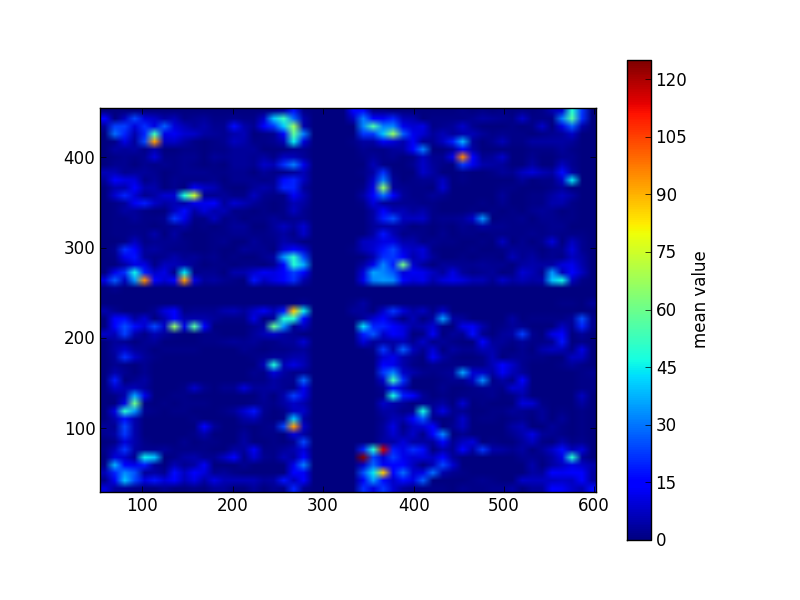
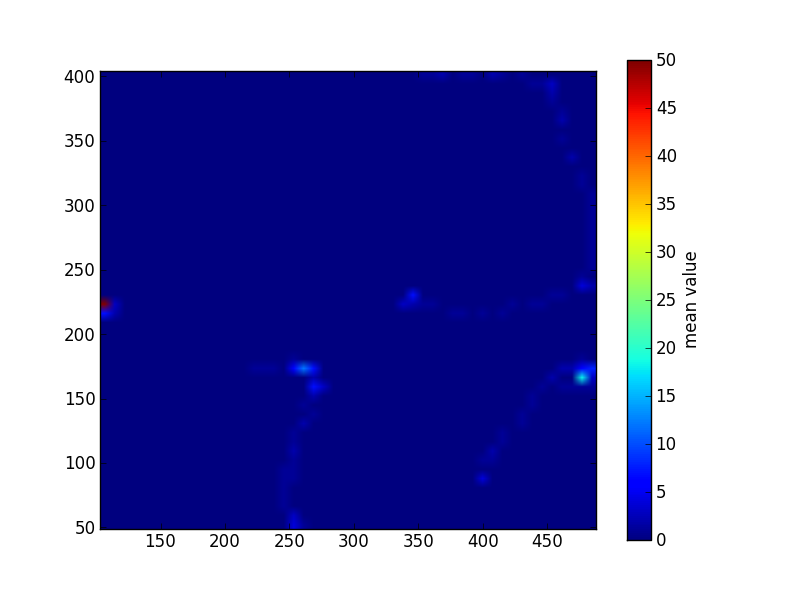
hitting the pause button

diff --git a/test.py b/test.py
@@ -1,6 +1,7 @@
 import cv2,cv
 import numpy as np
 import matplotlib.pyplot as plt
+import math
 
 CV_CAP_PROP_POS_MSEC = 0
 CV_CAP_PROP_POS_FRAMES = 1
@@ -30,23 +31,18 @@ print cap.isOpened()
 
 total_number_of_frames = cap.get(CV_CAP_PROP_FRAME_COUNT)
 print total_number_of_frames
+frame_per_sec = cap.get(CV_CAP_PROP_FPS)
+print frame_per_sec
 width = int(cap.get(3))
 height = int(cap.get(4))
 
+def comp_tuple(mp,pt1,pt2):
+    return mp[0] >= pt1[0] and mp[0] <= pt2[0] and mp[1] >= pt1[1] and mp[1] <= pt2[1]
 
-#import heatmap
-#import random
-#
-#hm = heatmap.Heatmap()
-#pts = [(random.uniform(-77.012, -77.050), random.uniform(38.888, 38.910)) for x in range(100)]
-#hm.heatmap(pts)
-#hm.saveKML("data.kml")
-
-#print frame
-#width = frame.shape[0]
-#height = frame.shape[1]
-#print width
-#print height
+def dist(pt1,pt2):
+    xd = pt2[0] - pt1[0]
+    yd = pt2[1] - pt1[1]
+    return math.sqrt(xd*xd + yd*yd)
 
 half_width = int(width/2)
 half_height = int(height/2)
@@ -58,10 +54,16 @@ perc_50_height = int((half_height-half_height*0.35)/2)
 perc_25_width = int((half_width-half_width*0.15)/2)
 perc_25_height = int((half_height-half_height*0.15)/2)
 
+threshold = 5
 correction = 35
 correction_height = 5 # old
 correction_height_inner = 10
 correction_height_outer = 20
+
+
+last_upper_left = None
+upper_left = upper_left_75 = upper_left_50 = upper_left_25 = 0
+dist_upper_left = dist_upper_left_75 = dist_upper_left_50 = dist_upper_left_25 = 0
 upper_left_point1 = tuple([0,0])
 upper_left_point2 = tuple([half_width,half_height])
 upper_left_75_point1 = tuple([perc_75_width+correction,perc_75_height+correction_height])
@@ -70,6 +72,10 @@ upper_left_50_point1 = tuple([perc_50_width+correction,perc_50_height+correction
 upper_left_50_point2 = tuple([half_width-perc_50_width+correction,half_height-perc_50_height+correction_height_outer])
 upper_left_25_point1 = tuple([perc_25_width+correction,perc_25_height+correction_height])
 upper_left_25_point2 = tuple([half_width-perc_25_width+correction,half_height-perc_25_height+correction_height_outer])
+
+last_upper_right = None
+upper_right = upper_right_75 = upper_right_50 = upper_right_25 = 0
+dist_upper_right = dist_upper_right_75 = dist_upper_right_50 = dist_upper_right_25 = 0
 upper_right_point1 = tuple([half_width,0])
 upper_right_point2 = tuple([width,half_height])
 upper_right_75_point1 = tuple([half_width+perc_75_width-correction,perc_75_height+correction_height])
@@ -79,6 +85,7 @@ upper_right_50_point2 = tuple([width-perc_50_width-correction,half_height-perc_5
 upper_right_25_point1 = tuple([half_width+perc_25_width-correction,perc_25_height+correction_height])
 upper_right_25_point2 = tuple([width-perc_25_width-correction,half_height-perc_25_height+correction_height_outer])
 
+lower_left = lower_left_75 = lower_left_50 = lower_left_25 = 0
 lower_left_point1 = tuple([0,half_height])
 lower_left_point2 = tuple([half_width,height])
 lower_left_75_point1 = tuple([perc_75_width+correction,half_height+perc_75_height+correction_height])
@@ -88,6 +95,7 @@ lower_left_50_point2 = tuple([half_width-perc_50_width+correction,height-perc_50
 lower_left_25_point1 = tuple([perc_25_width+correction,half_height+perc_25_height+correction_height])
 lower_left_25_point2 = tuple([half_width-perc_25_width+correction,height-perc_25_height-correction_height_outer])
 
+lower_right = lower_right_75 = lower_right_50 = lower_right_25 = 0
 lower_right_point1 = tuple([half_width,half_height])
 lower_right_point2 = tuple([width,height])
 lower_right_75_point1 = tuple([half_width+perc_75_width-correction,half_height+perc_75_height-correction_height_inner])
@@ -100,6 +108,7 @@ _,frame2 = cap.read()
 
 x = []
 y = []
+mid_points = []
 
 # convert to hsv and find range of colors
 #hsv = cv2.cvtColor(frame_cross,cv2.COLOR_BGR2HSV)
@@ -108,7 +117,7 @@ y = []
 print half_width
 print half_height
 frame_number = cap.get(CV_CAP_PROP_POS_FRAMES)
-while(frame_number < 5000):
+while(frame_number < 100):
     frame_number = cap.get(CV_CAP_PROP_POS_FRAMES)
     # read the frames
     _,frame = cap.read()
@@ -160,6 +169,7 @@ while(frame_number < 5000):
     end = tuple([half_width,height])
     cv2.line(frame,start,end,cv.CV_RGB(255,0,255))
     cv2.line(frame,start,end,cv.CV_RGB(255,0,255))
+
     cv2.rectangle(frame,upper_left_75_point1,upper_left_75_point2,cv.CV_RGB(255,0,255))
     cv2.rectangle(frame,upper_left_50_point1,upper_left_50_point2,cv.CV_RGB(255,0,255))
     cv2.rectangle(frame,upper_left_25_point1,upper_left_25_point2,cv.CV_RGB(255,0,255))
@@ -172,6 +182,8 @@ while(frame_number < 5000):
     cv2.rectangle(frame,lower_right_75_point1,lower_right_75_point2,cv.CV_RGB(0,255,0))
     cv2.rectangle(frame,lower_right_50_point1,lower_right_50_point2,cv.CV_RGB(0,255,0))
     cv2.rectangle(frame,lower_right_25_point1,lower_right_25_point2,cv.CV_RGB(0,255,0))
+
+    mid_points = []
     for cnt in contours2:
         summe = [0,0]
         number_of_points = 0
@@ -184,8 +196,78 @@ while(frame_number < 5000):
         x.append(mid_point[0])
         y.append(mid_point[1])
         mid_point = tuple([int(mid_point[0]),int(mid_point[1])])
+        mid_points.append(mid_point)
         cv2.circle(frame2,mid_point, 1, cv.CV_RGB(255,0,0))
         cv2.circle(frame,mid_point, 1, cv.CV_RGB(255,0,0))
+
+    for mp in mid_points:
+
+        if comp_tuple(mp,upper_left_point1,upper_left_point2):
+            #var1 = 4 if var1 is None else var1
+            last_upper_left = last_upper_left or mp
+            distance = dist(last_upper_left,mp)
+            if distance > threshold:
+                cv2.circle(frame,mp, 5, cv.CV_RGB(255,0,0))
+            else:
+                distance = 0
+
+            if comp_tuple(mp,upper_left_25_point1,upper_left_25_point2):
+                dist_upper_left_25 = dist_upper_left_25 + distance
+                upper_left_25 = upper_left_25 + 1
+            elif comp_tuple(mp,upper_left_50_point1,upper_left_50_point2):
+                upper_left_50 = upper_left_50 + 1
+                dist_upper_left_50 = dist_upper_left_50 + distance
+            elif comp_tuple(mp,upper_left_75_point1,upper_left_75_point2):
+                upper_left_75 = upper_left_75 + 1
+                dist_upper_left_75 = dist_upper_left_75 + distance
+            else:
+                upper_left = upper_left + 1
+                dist_upper_left = dist_upper_left + distance
+            last_upper_left = mp
+
+        if comp_tuple(mp,upper_right_point1,upper_right_point2):
+            last_upper_right = last_upper_right or mp
+            distance = dist(last_upper_right,mp)
+            if distance > threshold:
+                cv2.circle(frame,mp, 5, cv.CV_RGB(0,0,255))
+            else:
+                distance = 0
+            if comp_tuple(mp,upper_right_25_point1,upper_right_25_point2):
+                dist_upper_right_25 = dist_upper_right_25 + distance
+                upper_right_25 = upper_right_25 + 1
+            elif comp_tuple(mp,upper_right_50_point1,upper_right_50_point2):
+                upper_right_50 = upper_right_50 + 1
+                dist_upper_right_50 = dist_upper_right_50 + distance
+            elif comp_tuple(mp,upper_right_75_point1,upper_right_75_point2):
+                upper_right_75 = upper_right_75 + 1
+                dist_upper_right_75 = dist_upper_right_75 + distance
+            else:
+                upper_right = upper_right + 1
+                dist_upper_right = dist_upper_right + distance
+            last_upper_right = mp
+
+        if comp_tuple(mp,lower_left_point1,lower_left_point2):
+            cv2.circle(frame,mp, 5, cv.CV_RGB(0,255,0))
+            if comp_tuple(mp,lower_left_25_point1,lower_left_25_point2):
+                lower_left_25 = lower_left_25 + 1
+            elif comp_tuple(mp,lower_left_50_point1,lower_left_50_point2):
+                lower_left_50 = lower_left_50 + 1
+            elif comp_tuple(mp,lower_left_75_point1,lower_left_75_point2):
+                lower_left_75 = lower_left_75 + 1
+            else:
+                lower_left = lower_left + 1
+
+        if comp_tuple(mp,lower_right_point1,lower_right_point2):
+            cv2.circle(frame,mp, 5, cv.CV_RGB(0,255,255))
+            if comp_tuple(mp,lower_right_25_point1,lower_right_25_point2):
+                lower_right_25 = lower_right_25 + 1
+            elif comp_tuple(mp,lower_right_50_point1,lower_right_50_point2):
+                lower_right_50 = lower_right_50 + 1
+            elif comp_tuple(mp,lower_right_75_point1,lower_right_75_point2):
+                lower_right_75 = lower_right_75 + 1
+            else:
+                lower_right = lower_right + 1
+
 
     #print contours
     # finding centroids of best_cnt and draw a circle there
@@ -214,6 +296,35 @@ heatmap, xedges, yedges = np.histogram2d(x, y, bins=50)
 extent = [xedges[0], xedges[-1], yedges[0], yedges[-1]]
 #
 plt.clf()
+print "upper_left:\t" + str(upper_left)
+print "upper_left_25:\t" + str(upper_left_25)
+print "upper_left_50:\t" + str(upper_left_50)
+print "upper_left_75:\t" + str(upper_left_75)
+
+print "dist_upper_left:\t" + str(dist_upper_left)
+print "dist_upper_left_25:\t" + str(dist_upper_left_25)
+print "dist_upper_left_50:\t" + str(dist_upper_left_50)
+print "dist_upper_left_75:\t" + str(dist_upper_left_75)
+
+print "upper_right:\t" + str(upper_right)
+print "upper_right_25:\t" + str(upper_right_25)
+print "upper_right_50:\t" + str(upper_right_50)
+print "upper_right_75:\t" + str(upper_right_75)
+
+print "dist_upper_right:\t" + str(dist_upper_right)
+print "dist_upper_right_25:\t" + str(dist_upper_right_25)
+print "dist_upper_right_50:\t" + str(dist_upper_right_50)
+print "dist_upper_right_75:\t" + str(dist_upper_right_75)
+
+print "lower_left:\t" + str(lower_left)
+print "lower_left_25:\t" + str(lower_left_25)
+print "lower_left_50:\t" + str(lower_left_50)
+print "lower_left_75:\t" + str(lower_left_75)
+
+print "lower_right:\t" + str(lower_right)
+print "lower_right_25:\t" + str(lower_right_25)
+print "lower_right_50:\t" + str(lower_right_50)
+print "lower_right_75:\t" + str(lower_right_75)
 
 plt.imshow(heatmap, extent=extent)
 cb = plt.colorbar()
